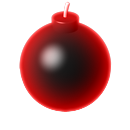
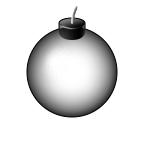
534

diff --git a/Classes/PlayUI.cpp b/Classes/PlayUI.cpp
@@ -1767,11 +1767,6 @@ bool PlayUI::getIsExchanged ()
 
 void PlayUI::addScoreAttack(int t_damage)
 {
-	if(bomb_img)// && bomb_manager->getRunningSequenceName() != string("bombcast1"))
-	{
-		bomb_manager->runAnimationsForSequenceNamed("bombcast1");
-	}
-	
 //	ccColor4F t_color;
 //	if(score_attack_damage.getV() < 3000)
 //	{
@@ -1838,9 +1833,9 @@ void PlayUI::scoreAttackKeep()
 	{
 		unschedule(schedule_selector(PlayUI::scoreAttackKeep));
 
-		bomb_manager->runAnimationsForSequenceNamed("Default Timeline");
-//		bomb_img->removeFromParent();
-//		bomb_img = NULL;
+		bomb_img->stopAllActions();
+		bomb_img->runAction(CCMoveTo::create(0.3f, ccp(0,-54)));
+		ing_bomb_value = 0;
 		
 		myGD->communication("Main_scoreAttackMissile", score_attack_damage.getV());
 		mySGD->replay_write_info[mySGD->getReplayKey(kReplayKey_timeStamp)][use_time][mySGD->getReplayKey(kReplayKey_timeStamp_scoreAttackDamage)] = score_attack_damage.getV();
@@ -2119,9 +2114,20 @@ void PlayUI::setComboCnt (int t_combo)
 	
 	if(before_combo < combo_cnt)
 	{
-		if(mySGD->is_endless_mode && combo_cnt%5 == 0)
+		if(mySGD->is_endless_mode)
 		{
-			addScoreAttack(3000);
+			if(combo_cnt%5 == 0)
+			{
+				ing_bomb_value = 5;
+				addScoreAttack(3000);
+			}
+			else if(ing_bomb_value < combo_cnt%5)
+			{
+				ing_bomb_value = combo_cnt%5;
+			}
+			
+			bomb_img->stopAllActions();
+			bomb_img->runAction(CCMoveTo::create(0.3f, ccp(0,-54+54.f/5.f*ing_bomb_value)));
 		}
 		
 		my_combo->showCombo(t_combo);
@@ -2139,6 +2145,11 @@ void PlayUI::setComboCnt (int t_combo)
 	}
 	else
 	{
+		ing_bomb_value = combo_cnt;
+		if(ing_bomb_value > 5)
+			ing_bomb_value = 5;
+		bomb_img->stopAllActions();
+		bomb_img->runAction(CCMoveTo::create(0.3f, ccp(0,-54+54.f/5.f*ing_bomb_value)));
 		myLog->addLog(kLOG_endCombo_i, myGD->getCommunication("UI_getUseTime"), before_combo);
 	}
 }
@@ -2753,6 +2764,7 @@ void PlayUI::myInit ()
 	is_on_clear_time_event = false;
 	
 	bomb_img = NULL;
+	ing_bomb_value = 0;
 	
 	score_value = 0;
 	damaged_score = 0;
@@ -2826,12 +2838,20 @@ void PlayUI::myInit ()
 											   UI_IN_TIME, [=](float t){nick_label->setPositionX(t);}, [=](float t)
 		{
 			nick_label->setPositionX(40-20+selectedFlagSpr->getContentSize().width/2.f*selectedFlagSpr->getScale()+2);
+			
+			CCClippingNode* me_bomb_clipping = CCClippingNode::create(CCSprite::create("endless_bomb_mask.png"));
+			me_bomb_clipping->setAlphaThreshold(0.1f);
+			me_bomb_clipping->setPosition(ccp(40, myDSH->ui_center_y+60));
+			addChild(me_bomb_clipping, -2);
+			
+			CCSprite* me_bomb_img = CCSprite::create("endless_bomb.png");
+			me_bomb_img->setPosition(ccp(40, myDSH->ui_center_y+60));
+			addChild(me_bomb_img, -1);
+			
 			auto temp = KS::loadCCBI<CCSprite*>(this, "endless_bomb_me.ccbi");
 			bomb_img = temp.first;
-			bomb_img->setPosition(ccp(40, myDSH->ui_center_y+60));
-			addChild(bomb_img,-1);
-			
-			bomb_manager = temp.second;
+			bomb_img->setPosition(ccp(0, -54));
+			me_bomb_clipping->addChild(bomb_img);
 		}));
 		thumb_node->addChild(score_label);
 	}

diff --git a/Classes/MaingameScene.cpp b/Classes/MaingameScene.cpp
@@ -637,15 +637,32 @@ void Maingame::finalSetting()
 	
 	if(mySGD->is_play_replay)
 	{
+		CCClippingNode* you_bomb_clipping = CCClippingNode::create(CCSprite::create("endless_bomb_mask.png"));
+		you_bomb_clipping->setAlphaThreshold(0.1f);
+		you_bomb_clipping->setPosition(ccp(440, myDSH->ui_center_y+60));
+		addChild(you_bomb_clipping, clearshowtimeZorder-1);
+		
+		CCSprite* you_bomb_img = CCSprite::create("endless_bomb.png");
+		you_bomb_img->setPosition(ccp(440, myDSH->ui_center_y+60));
+		addChild(you_bomb_img, clearshowtimeZorder);
+		
 		auto temp = KS::loadCCBI<CCSprite*>(this, "endless_bomb_you.ccbi");
 		replay_bomb = temp.first;
-		replay_bomb->setPosition(ccp(440, myDSH->ui_center_y+60));
-		addChild(replay_bomb,clearshowtimeZorder);
+		replay_bomb->setPosition(ccp(0, -54));
+		you_bomb_clipping->addChild(replay_bomb);
 		
-		replay_manager = temp.second;
-		
-		myGD->V_V["Main_readyBomb"] = [=](){replay_manager->runAnimationsForSequenceNamed("bombcast1");};
-		myGD->V_V["Main_stopBomb"] = [=](){replay_manager->runAnimationsForSequenceNamed("Default Timeline");};
+		myGD->V_V["Main_readyBomb"] = [=]()
+		{
+			replay_bomb->stopAllActions();
+			replay_bomb->runAction(CCMoveTo::create(0.5f, ccp(0, 0)));
+			//replay_manager->runAnimationsForSequenceNamed("bombcast1");
+		};
+		myGD->V_V["Main_stopBomb"] = [=]()
+		{
+			replay_bomb->stopAllActions();
+			replay_bomb->runAction(CCMoveTo::create(0.3f, ccp(0, -54)));
+//			replay_manager->runAnimationsForSequenceNamed("Default Timeline");
+		};
 		
 		replay_all_node = CCNode::create();
 		replay_all_node->setPosition(CCPointZero);

diff --git a/Classes/PlayUI.h b/Classes/PlayUI.h
@@ -375,7 +375,7 @@ private:
 	
 	int draw_button_tutorial_show;
 	CCSprite* bomb_img;
-	CCBAnimationManager* bomb_manager;
+	int ing_bomb_value;
 };
 #undef LZZ_INLINE
 #endif

diff --git a/Classes/MaingameScene.h b/Classes/MaingameScene.h
@@ -326,7 +326,6 @@ private:
 	CumberShowWindow* intro_boss;
 	
 	CCSprite* replay_bomb;
-	CCBAnimationManager* replay_manager;
 	
 	void startStory();
 	void endIntro();
